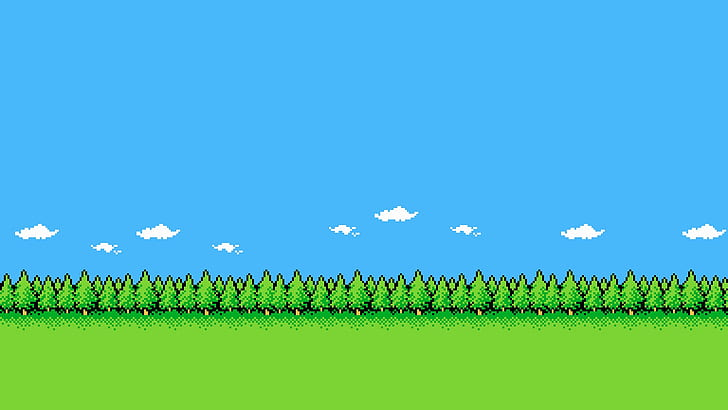
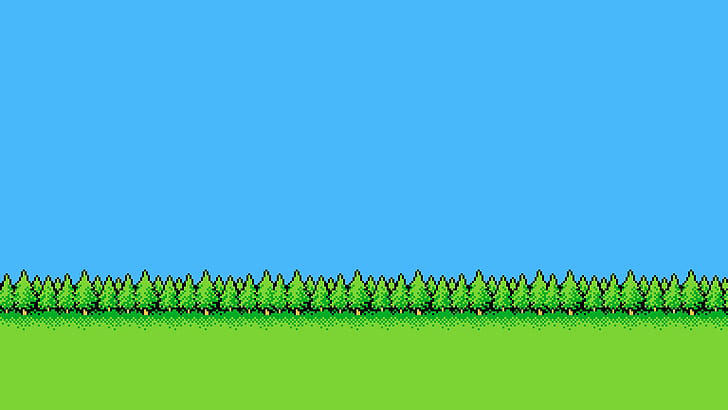
added background scroll and backward fireball

diff --git a/platform_1.py b/platform_1.py
@@ -10,8 +10,6 @@ clock = pygame.time.Clock()
 game_floor = screen.get_height() - 200
 
 # Global Variables
-background = pygame.image.load('images/background.jpg')
-background = pygame.transform.scale(background, (1200, 800))
 game_over = False
 cloud_images = [
     pygame.image.load('images/cloud1.png'),
@@ -35,19 +33,24 @@ class Player():
         self.fireballs = []
 
     def draw(self, screen):
-        if self.forward == False:
-            screen.blit(self.image_flipped, self.position)
-        else:
+        if self.forward == True:
             screen.blit(self.image, self.position)
+        else:
+            screen.blit(self.image_flipped, self.position)
 
     def update(self):
         key_pressed = pygame.key.get_pressed()
         if key_pressed[pygame.K_RIGHT]:
             self.forward = True
-            self.position[0] += self.speed
+
+            if self.position[0] <= screen.get_width() // 2:
+                self.position[0] += self.speed
+
         if key_pressed[pygame.K_LEFT]:
             self.forward = False
             self.position[0] -= self.speed
+            if self.position[0] < 0:
+                self.position[0] = 0
 
         if key_pressed[pygame.K_SPACE] and self.can_jump:
             self.can_jump = False
@@ -72,14 +75,18 @@ class Fireball():
     def __init__(self, position, player):
         self.speed = 10
         self.size = 25
+        self.forward = player.forward
         self.position = []
         self.position.append(position[0] + (self.size // 2) + (player.image.get_width() // 2))
         self.position.append(position[1] + (self.size // 2) + (player.image.get_height() // 2))
 
     def update(self):
-        self.position[0] += self.speed
+        if self.forward == True:
+            self.position[0] += self.speed
+        else:
+            self.position[0] -= self.speed
 
-    def draw(self):
+    def draw(self, screen):
         pygame.draw.circle(screen, (0, 100, 200), [self.position[0], self.position[1]], self.size)
         pygame.draw.circle(screen, (150, 100, 200), [self.position[0], self.position[1]], self.size // 1.25)
         pygame.draw.circle(screen, (255, 150, 255), [self.position[0], self.position[1]], self.size // 1.75)
@@ -100,17 +107,35 @@ class Enemy():
 
 class Cloud():
     def __init__(self):
-        self.position = [screen.get_width(), random.randint(0, 300)]
+        self.position = [screen.get_width(), random.randint(0, 400)]
         self.size = random.randint(50, 200)
         self.image = cloud_images[random.randint(0, len(cloud_images) - 1)]
         self.scaled_image = pygame.transform.scale(self.image, (self.image.get_width() * (self.size / 100), self.image.get_height() * (self.size / 100)))
-        self.speed = 2 * (self.size / 100)
+        self.speed = 1 * (self.size / 100)
 
     def update(self):
         self.position[0] -= self.speed
 
     def draw(self, screen):
         screen.blit(self.scaled_image, self.position)
+
+class Background():
+    def __init__(self):
+        self.image = pygame.image.load('images/background.jpg')
+        self.image = pygame.transform.scale(self.image, (1500, 850))
+        self.position = 0
+        self.timer = 0
+        self.speed = 4
+
+    def update(self, player):
+        key_pressed = pygame.key.get_pressed()
+        if player.position[0] >= screen.get_width() // 2 and key_pressed[pygame.K_RIGHT]:
+                self.position -= self.speed
+        if self.position <= - 250:
+            self.position = 0
+
+    def draw(self, screen):
+        screen.blit(self.image, (self.position, 0))
 
 # Functions
 
@@ -119,6 +144,7 @@ player = Player([200, game_floor])
 enemy = Enemy()
 clouds = []
 clouds.append(Cloud())
+background = Background()
 
 # Game Loop
 while not game_over:
@@ -133,10 +159,9 @@ while not game_over:
             if e.key == pygame.K_f:
                 player.fireballs.append(Fireball(Vector2(player.position), player))
 
-
     # Draw Background
-    pygame.draw.rect(screen, (0, 0, 0), [0, 0, screen.get_width(), screen.get_height()])
-    screen.blit(background, (0, 0))
+    background.update(player)
+    background.draw(screen)
 
     # Clouds Update
     if random.randint(0, 500) < 5:
@@ -144,6 +169,8 @@ while not game_over:
     for c in clouds:
         c.update()
         c.draw(screen)
+        if c.position[0] < 0 - c.scaled_image.get_width():
+            clouds.remove(c)
 
     # Enemy Update
     enemy.update()
@@ -156,9 +183,9 @@ while not game_over:
     # Fireball Update
     for f in player.fireballs:
         f.update()
-        f.draw()
-        if f.position[1] > screen.get_width():
-            player.fireballs[f].remove()
+        f.draw(screen)
+        if f.position[0] > screen.get_width():
+            player.fireballs.remove(f)
 
     pygame.display.update()
 
